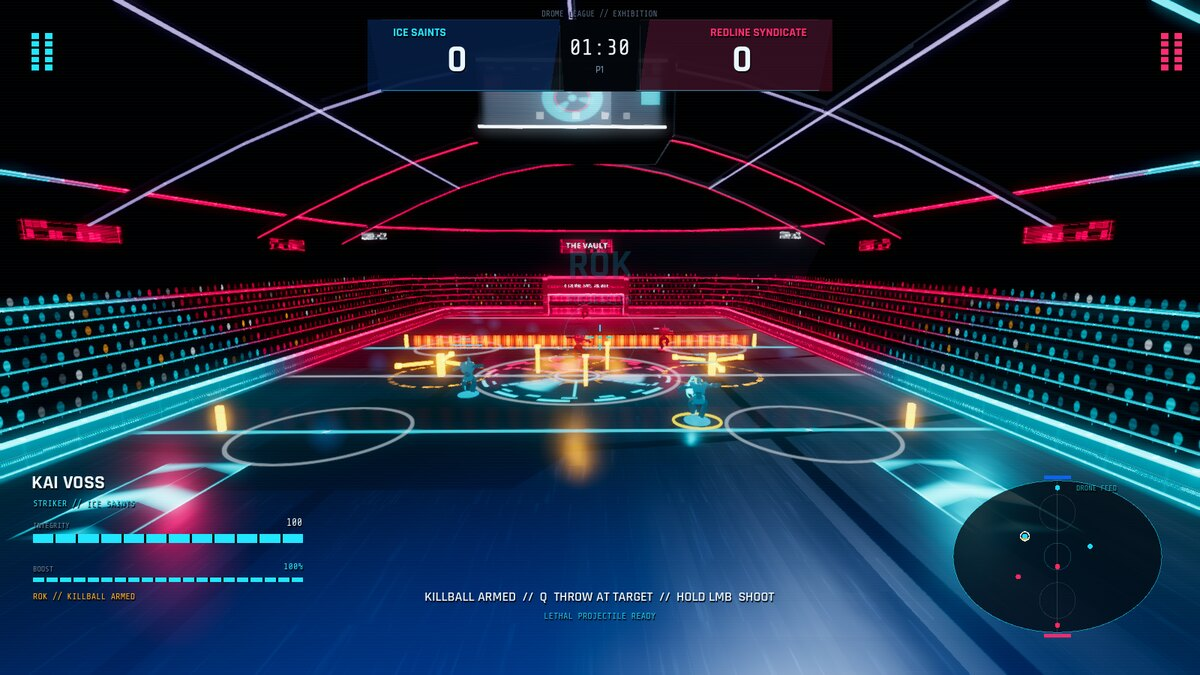
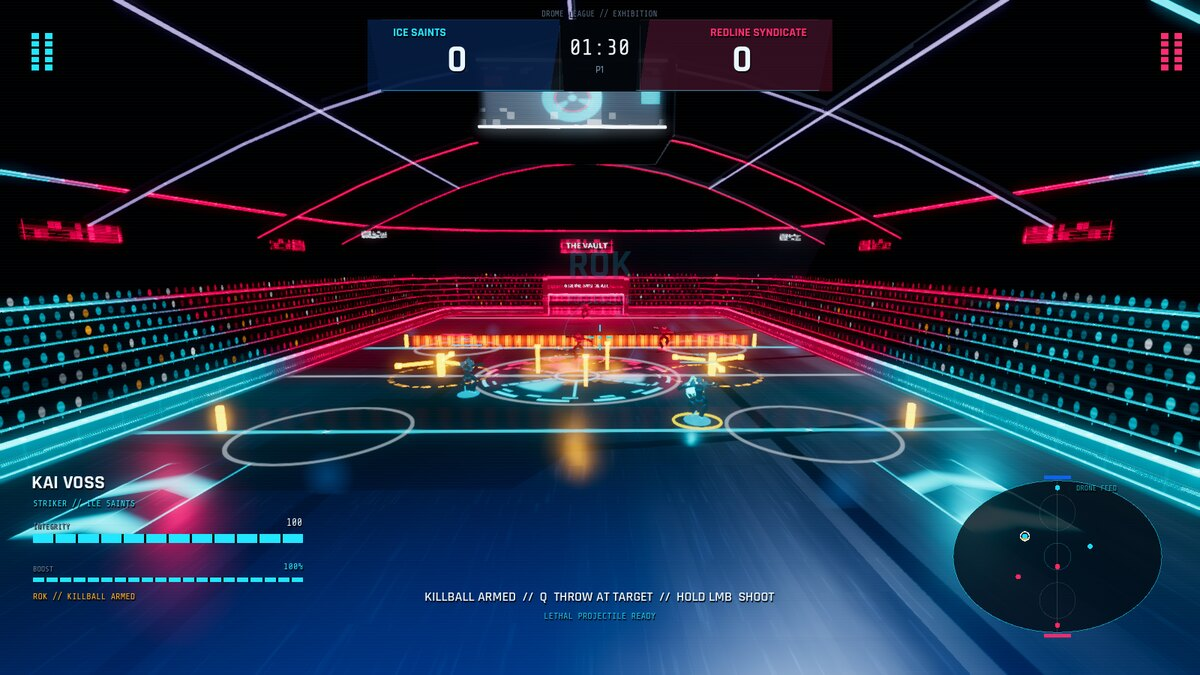
Sharpen skater silhouettes and mute on boot
- Rebuild the procedural armour around a lean, aggressive athletic silhouette:
  gunmetal plating over a dark team suit, tapered V chest with abdominal plates,
  swept shoulder blades, spiked crown helmets with slit visors, flared hip guards,
  slimmer thigh/shin plates, longer speed-skate blades and a longer jak.
- Use the combat-ready sword_idle stance for idle and add a speed/action forward
  lean; retune targets to 1.93 m so role variants measure 1.88-1.94 m.
- Keep 24 renderables per skater and all 93 ActionForge skater checks passing.
- The game now starts with the master bus muted by default (M unmutes; pause
  sliders/bracket keys adjust), persisting the user's choice in user://settings.cfg.
- Refresh character/game screenshots and evidence.
- Final export 124,300,448 bytes SHA-256
  FBA94B5C52B008BA5805CC2EC1B73EB79835BFD4533BAB29AF9C5E668DE0627A;
  selftest 18/18, integration 25/25, verify helper PASS.

diff --git a/docs/EVIDENCE.md b/docs/EVIDENCE.md
@@ -16,6 +16,10 @@ quality claim beyond what is written here. Timestamps are local (America/Chicago
 
 ## Game logic
 
+- **Default boot is muted.** With no `user://settings.cfg`, the headless demo prints
+  `muted=true`; the master bus is muted until the user presses `M`, moves a slider or presses `]`.
+  Settings then persist for subsequent launches.
+
 | Check | Exact command | Observed result |
 | --- | --- | --- |
 | Headless boot/import | `godot_console.exe --headless --path game --import` | exit 0 |
@@ -44,8 +48,8 @@ Godot's Input system, and checks:
 
 ## Repository hygiene
 
-- `python scripts/check_repo.py` → **PASS**: 138 UTF-8 text files with no BOM and no CR; 61 binary
-  files skipped; 13 relative Markdown links resolve; `CHECK_REPO_OK`.
+- `python scripts/check_repo.py` → **PASS**: 138 UTF-8 text files with no BOM and no CR; 62 binary
+  files skipped; 14 relative Markdown links resolve; `CHECK_REPO_OK`.
 
 ## Windowed presentation
 
@@ -55,6 +59,9 @@ Godot's Input system, and checks:
 - `godot_console.exe --path game -s res://tools/volume_preview.gd` (windowed) → exit 0;
   `05-pause.png` captures the pause **AUDIO MIX** with MASTER 65%, MUSIC 50%, SFX 80%;
   compressed as `docs/media/pause.jpg`.
+- `godot_console.exe --path game -s res://tools/skater_preview.gd -- --capture` → exit 0;
+  `lineup_front.png`, `duel_action.png`, `star_goalie_closeup.png`; compressed lineup used
+  in the README as `docs/media/characters.jpg`.
 - Volume/mix changes are saved to `user://settings.cfg` and applied to the Master/Music/SFX
   buses through `AudioDirector.set_volume/get_volume/set_muted`. Keyboard: `[` / `]` master,
   `M` mute.
@@ -66,7 +73,7 @@ Godot's Input system, and checks:
 | Subsystem | Exact command | Observed result |
 | --- | --- | --- |
 | Arena builder | `godot_console.exe --headless --quit-after 350 --path game res://tools/arena_preview.tscn -- --selftest` | exit 0, empty stderr; `ARENA_SELFTEST_OK`; 35/35 checks; **31 draws, 27,882 tris, 10 lights, 1,728 crowd instances, static_bodies=9, shapes=51**; goal areas at z=−30.5/+30.5; 4 spawn transforms per side; 4 boost pads; 4 hazards; bounds 16/30; no floor collider (match layer owns it) |
-| ActionForge skater integration | `godot_console.exe --headless --path game -s res://tools/skater_preview.gd` | exit 0, empty stderr; `SKATER_SELFTEST_PASS checks=93`; 20 clips; cold library 73.28 ms, cached 0.002 ms; per-model build 3.96–9.93 ms; 24 renderables/skater; 11 root-motion clips stripped |
+| ActionForge skater integration | `godot_console.exe --headless --path game -s res://tools/skater_preview.gd` | exit 0, empty stderr; `SKATER_SELFTEST_PASS checks=93`; 20 clips; cold library 37.5 ms, cached 0.001 ms; per-model build 2.8–6.8 ms; 24 renderables/skater; 11 root-motion clips stripped. Combat-idle stance uses `sword_idle`; measured heights 1.88–1.94 m after the aggressive silhouette pass. |
 | ActionForge skater preview scene | `godot_console.exe --headless --path game --quit-after 120 res://tools/skater_preview.tscn` | exit 0 |
 | Procedural audio | `godot_console.exe --headless --path game -s res://tools/audio_preview.gd` | `[AUDIO_PREVIEW] checks=121 fails=0`, `UB_AUDIO_PREVIEW_OK`, exit 0; 31 WAVs / 12.26 MB; 44.1 kHz 16-bit PCM; loops tagged forward |
 | Audio generation | `python tools/generate_audio.py --verify-only` | `VERIFY 31 assets, 12.26 MB ... PASS` |
@@ -78,8 +85,8 @@ Godot's Input system, and checks:
 - `build\UltraBlade.exe --headless -- --selftest` → exit 0; same 18/18 marker.
 - The export uses the pinned 4.7.2 Windows Desktop template from this machine.
 
-Final export: **124,297,152 bytes**, SHA-256
[1 lines of base64/hex data omitted]
+Final export: **124,300,448 bytes**, SHA-256
[1 lines of base64/hex data omitted]
 The exported binary was also run windowed in capture mode, and wrote four 1600×900 PNGs, proving
 that the packaged project loads its scene, arena, skater models, audio and HUD outside the editor.
 The final build was re-smoked with `build\UltraBlade.exe --headless -- --selftest` → exit 0,

diff --git a/README.md b/README.md
@@ -37,7 +37,14 @@ is presentation and feel: the ActionForge-animated skaters, a neon broadcast dro
 cinematics, impact feedback, a readable combat HUD, a minimap, kill feed and an original
 procedural score.
 
+The skaters are deliberately lean and aggressive: gunmetal plating over a dark team suit, swept
+shoulder blades, spiked crown helmets, slit visors, long serrated jaks and low, combat-ready
+stances. Role builds exaggerate the silhouette — enforcers are broader and caged, runners are
+slight, and goalies carry heavy pads and blockers.
+
 ![Gameplay in THE VAULT](docs/media/gameplay.jpg)
+
+![Character lineup: striker, enforcer, runner, anchor, goalie](docs/media/characters.jpg)
 
 ## Controls
 
@@ -59,6 +66,8 @@ procedural score.
 | `Enter` | Start / rematch from the title or end screen |
 
 Volume and mix are also available in the pause menu: **MASTER**, **MUSIC** and **SFX** sliders. Settings are persisted to `user://settings.cfg` between runs.
+
+**The game starts muted by default.** Press `M` to unmute, or raise the master slider / press `]`.
 
 ![Pause audio mix](docs/media/pause.jpg)
 

diff --git a/docs/CONTROLS.md b/docs/CONTROLS.md
@@ -18,8 +18,8 @@
 | Enter | Start from the title; rematch from the end screen |
 
 Menu: mouse is visible. Field manual opens from the title screen. **Pause → AUDIO MIX** has
-MASTER, MUSIC and SFX sliders; volumes persist in `user://settings.cfg`. Gamepad support is not in
-this slice.
+MASTER, MUSIC and SFX sliders; volumes persist in `user://settings.cfg`. The game starts **muted** by
+default — press `M` to unmute. Gamepad support is not in this slice.
 
 ## Match rules
 
